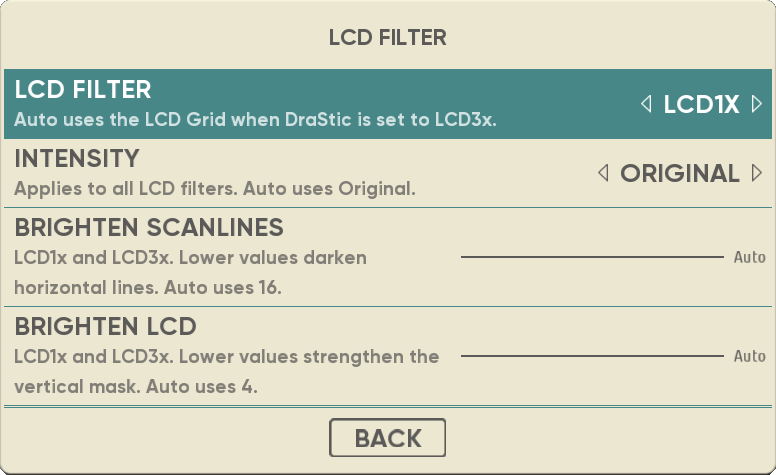
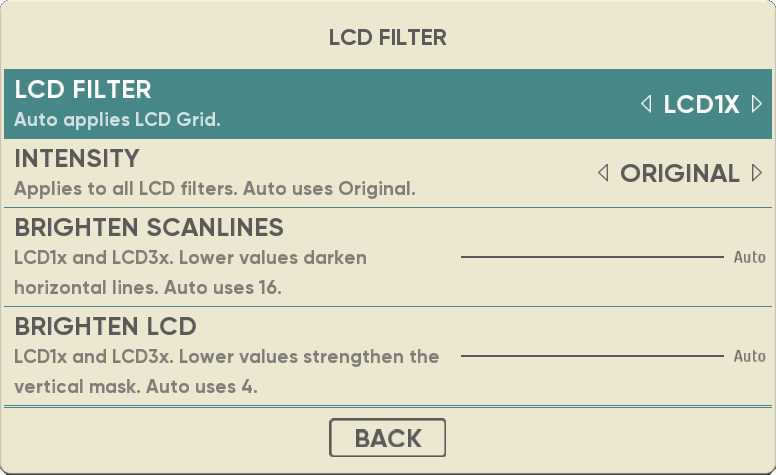
Default the automatic LCD filter to LCD Grid

Changed region(s): [[0.0619, 0.2358, 0.6495, 0.2653]]

diff --git a/tests/lcd_launcher_test.py b/tests/lcd_launcher_test.py
@@ -10,7 +10,7 @@ PORT = ROOT / 'targets/rgdsplus'
 
 
 class LauncherSettings(unittest.TestCase):
-    def launch_settings(self, shader='', inherited='', intensity='', scanlines='', lcd=''):
+    def launch_settings(self, shader='', intensity='', scanlines='', lcd=''):
         script = (PORT / 'launch-rom.sh').read_text()
         script = script.split('case "$rom" in', 1)[0]
         script = script.replace('. /etc/profile.d/001-functions', '''
@@ -18,7 +18,6 @@ get_setting() {
     test "$2" = nds && test "$3" = 'Game Name.nds' || exit 99
     case "$1" in
         drastic_ui_plus_shader) printf '%s' "$TEST_SHADER" ;;
-        shader) printf '%s' "$TEST_INHERITED" ;;
         drastic_ui_plus_lcd_intensity) printf '%s' "$TEST_INTENSITY" ;;
         drastic_ui_plus_brighten_scanlines) printf '%s' "$TEST_SCANLINES" ;;
         drastic_ui_plus_brighten_lcd) printf '%s' "$TEST_LCD" ;;
@@ -28,7 +27,7 @@ get_setting() {
 realpath() { printf '%s' '/storage/roms/nds/Game Name.nds'; }
 ''')
         script += '\nprintf "%s|%s|%s|%s" "$DRASTIC_UI_PLUS_SHADER" "$DRASTIC_UI_PLUS_LCD_INTENSITY" "$DRASTIC_UI_PLUS_BRIGHTEN_SCANLINES" "$DRASTIC_UI_PLUS_BRIGHTEN_LCD"\n'
-        env = dict(os.environ, TEST_SHADER=shader, TEST_INHERITED=inherited,
+        env = dict(os.environ, TEST_SHADER=shader,
                    TEST_INTENSITY=intensity, TEST_SCANLINES=scanlines, TEST_LCD=lcd)
         return subprocess.check_output(['bash', '-c', script, 'launcher', 'game'],
                                        env=env, text=True)
@@ -43,15 +42,13 @@ realpath() { printf '%s' '/storage/roms/nds/Game Name.nds'; }
         for shader in items['drastic_ui_plus_shader'].findall('choice'):
             for intensity in items['drastic_ui_plus_lcd_intensity'].findall('choice'):
                 s, i = shader.attrib['value'], intensity.attrib['value']
-                self.assertEqual(self.launch_settings(s, 'lcd3x', i), f'{s}|{i}||')
+                self.assertEqual(self.launch_settings(s, i), f'{s}|{i}||')
 
-    def test_defaults_and_legacy_settings(self):
+    def test_defaults(self):
         for value in ['', 'auto', 'invalid']:
-            self.assertEqual(self.launch_settings('lcd3x', '', value), 'lcd3x|original||')
+            self.assertEqual(self.launch_settings('lcd3x', value), 'lcd3x|original||')
         for value in ['', 'auto']:
-            self.assertEqual(self.launch_settings(value, 'lcd3x'), 'lcd3x|original||')
-        self.assertEqual(self.launch_settings('none', 'lcd3x', 'strong'), 'none|strong||')
-        self.assertEqual(self.launch_settings(), '|original||')
+            self.assertEqual(self.launch_settings(value), 'lcd-grid|original||')
 
     def test_shader_parameters_reach_hook(self):
         self.assertEqual(

diff --git a/README.md b/README.md
@@ -38,7 +38,7 @@ The archive in `dist/` contains the UI library, scripts, EmulationStation config
 
 Close the running game before installation. Copy the archive to the console and extract it under `/storage` so the launcher is at `/storage/drastic-ui-plus/launch-rom.sh`. Install the archive's two `es_*.cfg` files in `/storage/.config/emulationstation/`, then restart EmulationStation. If the earlier Fun Drastic test integration is installed, move its `es_*_fun_drastic.cfg` files outside that directory first to avoid competing Nintendo DS overrides.
 
-Choose **DraStic UI Plus** as the Nintendo DS emulator. The **LCD Filter** menu offers LCD Grid, LCD1x, LCD3x and Off. **Intensity** applies to all three filters, and **Brighten Scanlines** and **Brighten LCD** tune the horizontal and vertical masks in LCD1x and LCD3x. Reopen the game after changing settings.
+Choose **DraStic UI Plus** as the Nintendo DS emulator. The **LCD Filter** menu offers Auto, LCD Grid, LCD1x, LCD3x and Off. Auto applies LCD Grid. **Intensity** applies to all three filters, and **Brighten Scanlines** and **Brighten LCD** tune the horizontal and vertical masks in LCD1x and LCD3x. Reopen the game after changing settings.
 
 The add-on uses its own `state/` folder for UI settings and preview images. In-game saves (`.dsv`) use `/storage/roms/nds/` by default. DraStic save states (`.dss`) use `/storage/roms/savestates/nds/`.
 
